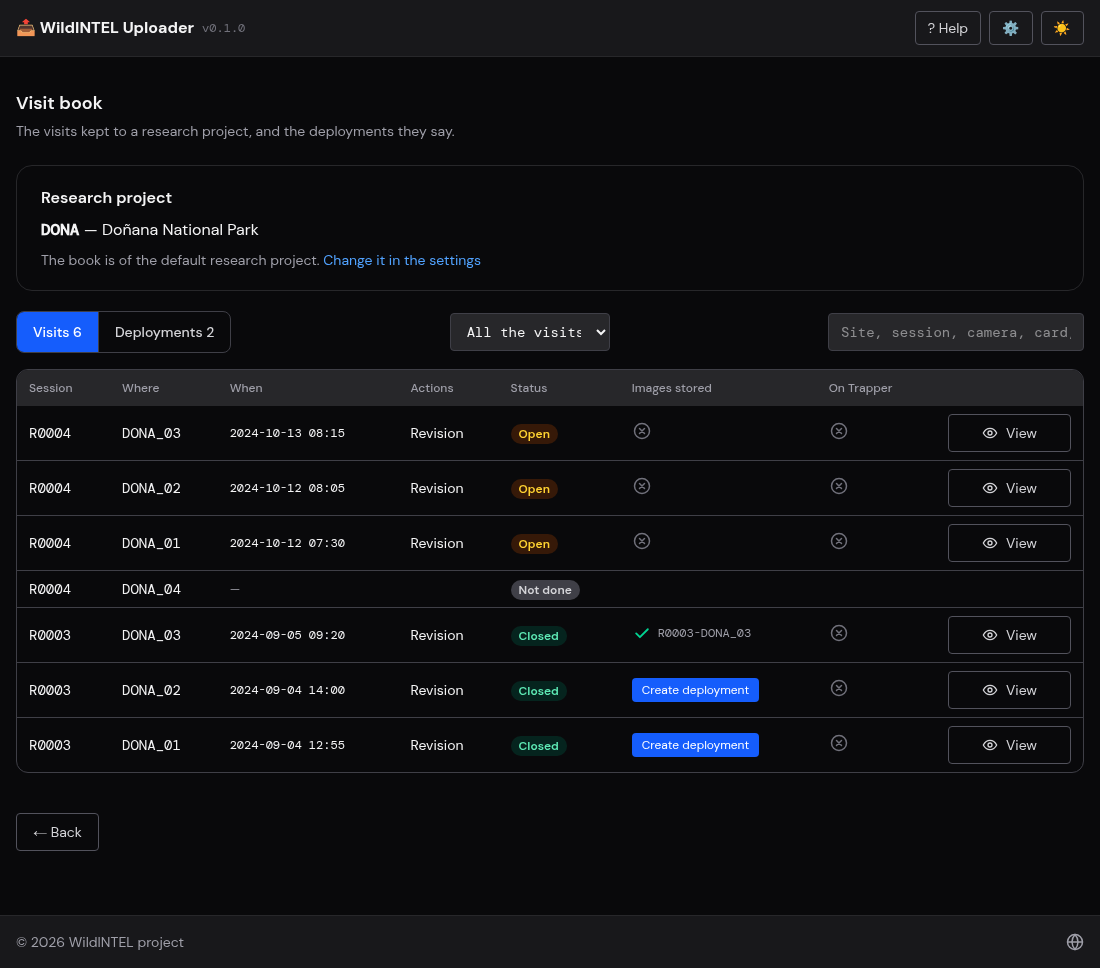
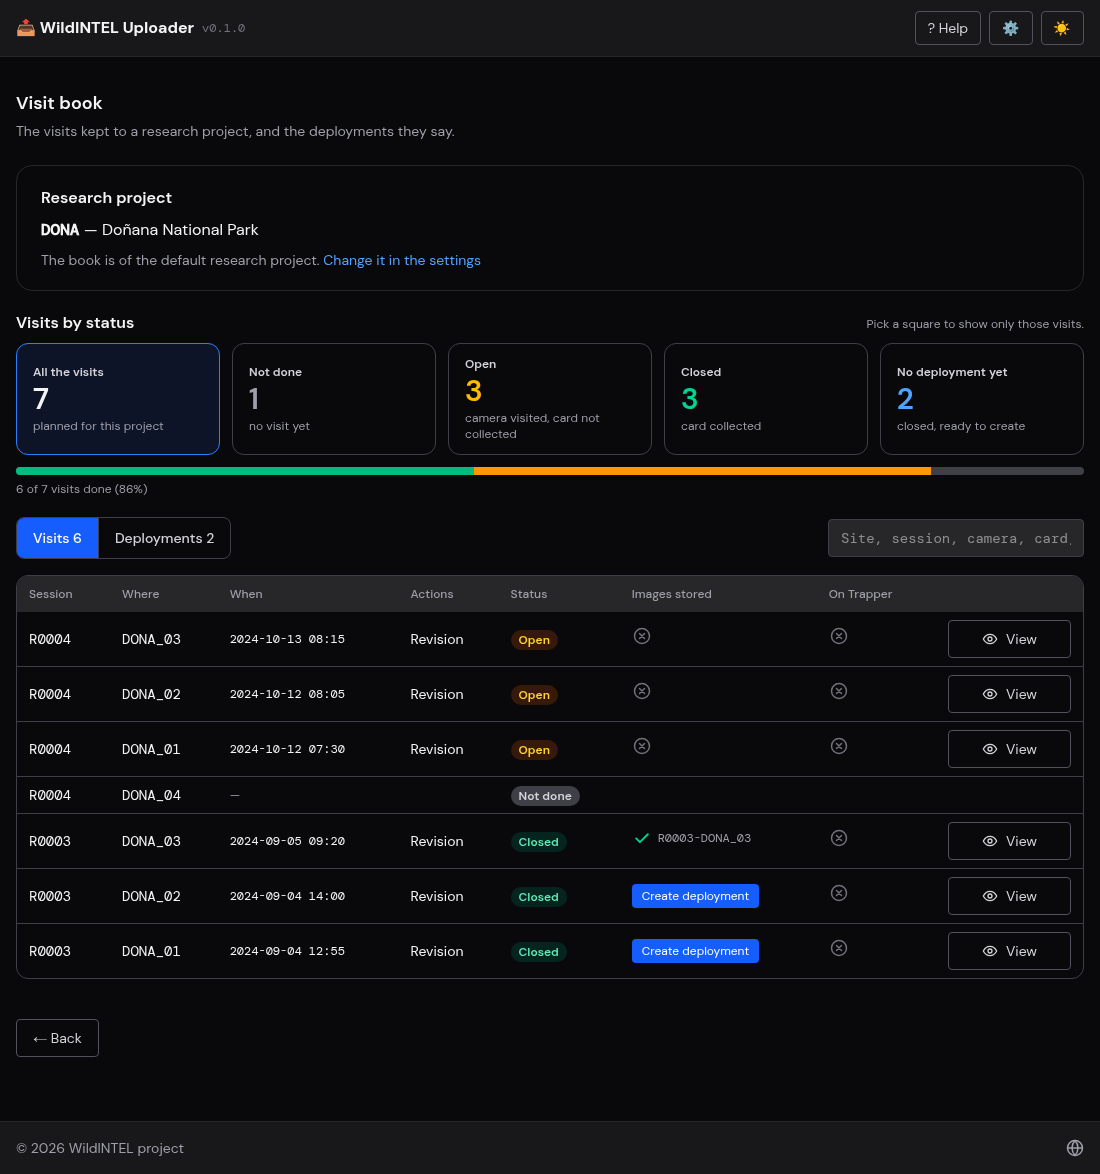
Visit book: five status squares that count and filter the visits, with a bar of how many are done

diff --git a/frontend/src/pages/VisitBookPage.tsx b/frontend/src/pages/VisitBookPage.tsx
@@ -46,6 +46,10 @@ function sortValue(v: BookVisit, key: SortKey): string | number {
   }
 }
 
+/** The rows the status squares show: all, the ones not made, the open ones, the closed ones, and the closed ones whose deployment is not created yet. */
+type StatusFilter = '' | 'not_done' | 'open' | 'closed' | 'to_create'
+const matches = (v: BookVisit, f: StatusFilter) => !f || (f === 'not_done' ? v.not_done : f === 'to_create' ? v.deployment_status === 'closed' && !v.deployment_id : v.deployment_status === f)
+
 /** How many visits a page of the book has. */
 const PER_PAGE = 10
 
@@ -59,7 +63,7 @@ export default function VisitBookPage({ onBack, onImportImages, onOpenSettings, 
   const [opened, setOpened] = useState<string | null>(null)
   const [deployments, setDeployments] = useState<FieldDeployment[] | null>(null)
   const [filter, setFilter] = useState('')
-  const [statusFilter, setStatusFilter] = useState<'' | 'closed' | 'open' | 'not_done'>('')
+  const [statusFilter, setStatusFilter] = useState<StatusFilter>('')
   const [page, setPage] = useState(1)
   // Sorted by a column when one is chosen — pressing it again turns it round —; else the latest session first.
   const [sort, setSort] = useState<{ key: SortKey; descending: boolean } | null>(null)
@@ -95,9 +99,21 @@ export default function VisitBookPage({ onBack, onImportImages, onOpenSettings, 
     return () => { cancelled = true }
   }, [project?.acronym]) // eslint-disable-line react-hooks/exhaustive-deps
 
+  // How many rows each status square has — over all the rows of the book, whatever the text filter says.
+  const rows = visits ?? []
+  const count = (f: StatusFilter) => rows.filter((v) => matches(v, f)).length
+  const made = rows.filter((v) => !v.not_done).length
+  const SQUARES: { filter: StatusFilter; label: string; note: string; tone: string }[] = [
+    { filter: '', label: 'All the visits', note: 'planned for this project', tone: 'text-zinc-900 dark:text-zinc-100' },
+    { filter: 'not_done', label: 'Not done', note: 'no visit yet', tone: 'text-zinc-500 dark:text-zinc-400' },
+    { filter: 'open', label: 'Open', note: 'camera visited, card not collected', tone: 'text-amber-600 dark:text-amber-400' },
+    { filter: 'closed', label: 'Closed', note: 'card collected', tone: 'text-emerald-600 dark:text-emerald-400' },
+    { filter: 'to_create', label: 'No deployment yet', note: 'closed, ready to create', tone: 'text-blue-600 dark:text-blue-400' },
+  ]
+
   const needle = filter.trim().toLowerCase()
   const shown = (visits ?? [])
-    .filter((v) => !statusFilter || (statusFilter === 'not_done' ? v.not_done : v.deployment_status === statusFilter))
+    .filter((v) => matches(v, statusFilter))
     .filter((v) => !needle || `${v.location_id} ${v.session} ${v.camera_id ?? ''} ${v.sd ?? ''} ${v.trappers ?? ''} ${v.actions.join(' ')} ${v.deployment_id ?? ''} ${v.deployment_status ?? ''} ${v.not_done ? 'not done' : ''}`.toLowerCase().includes(needle))
     // by the column chosen — the rows not made last —, else the latest session first, within it the visits made newest first and then the ones not made, by site
     .sort((a, b) => {
@@ -136,6 +152,30 @@ export default function VisitBookPage({ onBack, onImportImages, onOpenSettings, 
 
       {project && (
         <>
+          {visits !== null && (
+            <section aria-label="Visits by status" className="mb-5">
+              <div className="mb-2 flex flex-wrap items-baseline justify-between gap-2">
+                <h5 className="text-base font-semibold">Visits by status</h5>
+                <span className="text-xs text-zinc-500 dark:text-zinc-400">Pick a square to show only those visits.</span>
+              </div>
+              <div className="grid grid-cols-2 sm:grid-cols-5 gap-3">
+                {SQUARES.map((s) => (
+                  <button key={s.label} type="button" aria-pressed={statusFilter === s.filter}
+                          onClick={() => { setStatusFilter(statusFilter === s.filter ? '' : s.filter); setPage(1); setOpened(null) }}
+                          className={`rounded-xl border px-4 py-3 text-left transition-colors ${statusFilter === s.filter ? 'border-blue-500 bg-blue-50 dark:bg-blue-950/40' : 'border-zinc-200 dark:border-zinc-700 hover:bg-zinc-50 dark:hover:bg-zinc-800/60'}`}>
+                    <span className="block text-xs font-semibold text-zinc-600 dark:text-zinc-300">{s.label}</span>
+                    <span className={`block text-3xl font-semibold leading-tight ${s.tone}`}>{count(s.filter)}</span>
+                    <span className="block text-xs text-zinc-500 dark:text-zinc-400">{s.note}</span>
+                  </button>
+                ))}
+              </div>
+              <div role="progressbar" aria-label="Visits done" aria-valuemin={0} aria-valuemax={rows.length} aria-valuenow={made} className="mt-3 flex h-2 overflow-hidden rounded-full bg-zinc-200 dark:bg-zinc-700">
+                <div className="bg-emerald-500" style={{ width: `${rows.length ? (count('closed') / rows.length) * 100 : 0}%` }} />
+                <div className="bg-amber-500" style={{ width: `${rows.length ? (count('open') / rows.length) * 100 : 0}%` }} />
+              </div>
+              <p className="mt-1.5 text-xs text-zinc-500 dark:text-zinc-400">{made} of {rows.length} visits done ({rows.length ? Math.round((made / rows.length) * 100) : 0}%)</p>
+            </section>
+          )}
           <div className="mb-4 flex flex-wrap items-center justify-between gap-3">
             <div className="inline-flex overflow-hidden rounded-lg border border-zinc-300 dark:border-zinc-700" role="tablist" aria-label="Show">
               {([['visits', 'Visits', visits?.filter((v) => !v.not_done).length], ['deployments', 'Deployments', deployments?.length]] as const).map(([id, label, n]) => (
@@ -143,9 +183,6 @@ export default function VisitBookPage({ onBack, onImportImages, onOpenSettings, 
                         className={`px-4 py-2.5 text-sm font-medium border-l first:border-l-0 border-zinc-300 dark:border-zinc-700 ${view === id ? 'bg-blue-600 text-white' : 'text-zinc-600 dark:text-zinc-300 hover:bg-zinc-100 dark:hover:bg-zinc-800'}`}>{label}{n !== undefined ? ` ${n}` : ''}</button>
               ))}
             </div>
-            {view === 'visits' && <select aria-label="Filter by status" className={`${inputClass} !w-40`} value={statusFilter} onChange={(e) => { setStatusFilter(e.target.value as typeof statusFilter); setPage(1); setOpened(null) }}>
-              <option value="">All the visits</option><option value="closed">Closed</option><option value="open">Open</option><option value="not_done">Not done</option>
-            </select>}
             {view === 'visits' && <input aria-label="Filter the visits" className={`${inputClass} !w-64`} placeholder="Site, session, camera, card, who, deployment…" value={filter} onChange={(e) => { setFilter(e.target.value); setPage(1); setOpened(null) }} />}
           </div>
 

diff --git a/frontend/src/pages/VisitBookPage.test.tsx b/frontend/src/pages/VisitBookPage.test.tsx
@@ -82,8 +82,37 @@ describe('VisitBookPage', () => {
     expect(within(notDone).getAllByRole('cell').slice(0, 5).map((c) => c.textContent)).toEqual(['R0001', 'TATR_0002', '—', '', 'Not done'])
     expect(within(notDone).queryByRole('button')).not.toBeInTheDocument()
     expect(within(done).getByRole('button', { name: /View the visit/ })).toBeInTheDocument()
-    await userEvent.selectOptions(screen.getByLabelText('Filter by status'), 'not_done')
+    await userEvent.click(screen.getByRole('button', { name: /^Not done/ }))
     expect(within(table).getAllByRole('row').slice(1)).toHaveLength(1)
+  })
+
+  it('counts the visits by status in squares that filter them, with how many are done', async () => {
+    mockedApi.visitBook.mockResolvedValue({ results: [
+      visit({ session: 'R0001', deployment: 'R0001-TATR_0001', deployment_status: 'closed' }),
+      visit({ session: 'R0001', location_id: 'TATR_0002', deployment: 'R0001-TATR_0002', deployment_status: 'closed', deployment_id: 'R0001-TATR_0002' }),
+      visit({ session: 'R0002', deployment: 'R0002-TATR_0001', deployment_status: 'open' }),
+      visit({ session: 'R0002', location_id: 'TATR_0002', date: '', time: '', actions: [], not_done: true, sd: null, camera_id: null, trappers: null }),
+    ] })
+    await pickProject()
+    const squares = await screen.findByRole('region', { name: 'Visits by status' })
+    const square = (name: RegExp) => within(squares).getByRole('button', { name })
+
+    expect(square(/^All the visits/)).toHaveTextContent('4')
+    expect(square(/^Not done/)).toHaveTextContent('1')
+    expect(square(/^Open/)).toHaveTextContent('1')
+    expect(square(/^Closed/)).toHaveTextContent('2')
+    expect(square(/^No deployment yet/)).toHaveTextContent('1')            // closed, and no deployment created yet
+    expect(within(squares).getByRole('progressbar', { name: 'Visits done' })).toHaveAttribute('aria-valuenow', '3')
+    expect(within(squares).getByText('3 of 4 visits done (75%)')).toBeInTheDocument()
+
+    const table = screen.getByRole('table', { name: 'Visits' })
+    await userEvent.click(square(/^No deployment yet/))
+    expect(square(/^No deployment yet/)).toHaveAttribute('aria-pressed', 'true')
+    expect(within(table).getAllByRole('row').slice(1)).toHaveLength(1)
+    await userEvent.click(square(/^No deployment yet/))                      // pressed again: all
+    expect(within(table).getAllByRole('row').slice(1)).toHaveLength(4)
+    await userEvent.click(square(/^Closed/))
+    expect(within(table).getAllByRole('row').slice(1)).toHaveLength(2)
   })
 
   it('pages the visits, ten at a time, and goes back to the first page when the filter changes', async () => {

diff --git a/CHANGELOG.md b/CHANGELOG.md
@@ -21,7 +21,7 @@ adheres to [Semantic Versioning](https://semver.org/spec/v2.0.0.html).
 - **Locations from the file itself**: the sites of a file that are not locations come with the coordinates of their first visit, and **Add the N sites with coordinates as locations** keeps them all at once (the ones that look like a misprint are left for the user).
 - **Manage visits** is the task of the menu (it was *Register visits*): it offers **Register visits** and **Show the visit book** — the visits kept to a research project (newest first, with a filter and the deployment each closed) and, in a second tab, the
   deployments they say (closed, and the ones whose camera is still out).
-- **The visit book** is of the default research project (Settings › General), named at the top with a link to the settings; it is paged (ten rows), can be sorted by any column and has a row — *Not done* — for each location (not retired) that has no visit in a session the visits have. It (`/api/visits/book`) lists a visit as *Session · Where · When · Status (open or closed) · Actions · Images stored · On Trapper* (a tick when the deployment was uploaded from here or synced from Trapper) (a tick with the deployment's id once it is created and its images imported, or **Create deployment** on a closed visit that has none), then its actions, camera, card, photos and who went; **View** (the eye button of the entities) shows everything the visit says; **Create deployment** opens Import deployment with that visit chosen.
+- **The visit book** is of the default research project (Settings › General), named at the top with a link to the settings; it is paged (ten rows), can be sorted by any column, has five status squares (all, not done, open, closed, no deployment yet) that count and filter the rows with a bar of how many visits are done, and has a row — *Not done* — for each location (not retired) that has no visit in a session the visits have. It (`/api/visits/book`) lists a visit as *Session · Where · When · Status (open or closed) · Actions · Images stored · On Trapper* (a tick when the deployment was uploaded from here or synced from Trapper) (a tick with the deployment's id once it is created and its images imported, or **Create deployment** on a closed visit that has none), then its actions, camera, card, photos and who went; **View** (the eye button of the entities) shows everything the visit says; **Create deployment** opens Import deployment with that visit chosen.
 - **The cameras and the SD cards are kept in the folder of their research project** (`<research project>/cameras.json` and `sd_cards.json`, beside `locations.json` and `visits.json`), so they travel with its collections; only the trappers stay in
   `settings.toml`. `GET /api/settings` gives the ones of every research project and `PUT /api/settings` saves each project's list in its folder — a camera or a card needs its research project (`422` otherwise). Those kept in `settings.toml`
   until now are moved when the settings are read (one that was free for any goes to each research project; one of a project that is not in the collections folder stays in the settings).

diff --git a/docs/user-manual-web.md b/docs/user-manual-web.md
@@ -212,7 +212,7 @@ Press **📋 Manage visits**: it offers **Register visits** and **Show the visit
 
 The book is of the **default research project** (the one set in Settings › General), which it names at the top with a link to the settings where it is changed. It shows, in two tabs, the **visits** kept to it — newest first, with a filter — and the **deployments** its visits say, by collection: the closed ones and the ones whose camera is still out.
 
-Besides the visits made, the book has a row — status **Not done**, with no day, no actions and no buttons — for each location of the research project (but the retired ones) that has no visit in a session the visits have: if the project has 60 locations, each session has 60 rows. The list is paged, ten rows at a time, can be filtered by status and by text, and **sorted by a column** — press its name, and again to turn it round (the rows not made always go last).
+Besides the visits made, the book has a row — status **Not done**, with no day, no actions and no buttons — for each location of the research project (but the retired ones) that has no visit in a session the visits have: if the project has 60 locations, each session has 60 rows. The list is paged, ten rows at a time, can be filtered by text and by status — five **squares** above the list count the rows (*All the visits*, *Not done*, *Open*, *Closed* and *No deployment yet*: closed, ready to create) and pressing one shows only those; a bar and *N of M visits done* sum it up —, and **sorted by a column** — press its name, and again to turn it round (the rows not made always go last).
 
 A visit is one row: its **Session**, **Where** (the site), **When**, the **Actions**, its **Status** — *Closed* once a later visit collected the card it left, *Open* while that camera is still out, nothing for a visit that left no camera —
 and **Images stored**: a **tick** (with the deployment's id) once the deployment is created and its images imported; a **Create deployment** button on a *closed* visit that has none yet — it opens [Import deployment](#6-import-a-deployment) with the research project and that visit already chosen —; and a grey crossed circle on an *open* visit, whose card has not been collected. **On Trapper** says whether that deployment is on Trapper — a tick when it was uploaded from here (the day is in its tooltip) or synced from there, a grey crossed circle when not. **View** (the eye button, as in the entities) opens everything the visit says (the camera, the card, the photos, who went, the camera model, the details of the camera and the site, the notes, its instant in UTC…). 
